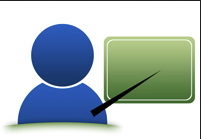
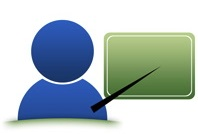
mentee/mentor img added and displayed

diff --git a/public/js/app.js b/public/js/app.js
@@ -46345,7 +46345,8 @@ Vue.use(__WEBPACK_IMPORTED_MODULE_0_vue_particles__["a" /* default */]);
     data: function data() {
         return {
             showCard: false,
-            image: ''
+            mentorLink: 'mentor.jpg',
+            menteeLink: 'mentee.jpg'
         };
     },
 
@@ -46427,6 +46428,10 @@ var render = function() {
                     _vm._v(" "),
                     _c("div", { staticClass: "row" }, [
                       _c("div", { staticClass: "col-6 border-line-left" }, [
+                        _c("img", {
+                          attrs: { src: "images/" + _vm.mentorLink }
+                        }),
+                        _vm._v(" "),
                         _c(
                           "a",
                           {
@@ -46438,6 +46443,10 @@ var render = function() {
                       ]),
                       _vm._v(" "),
                       _c("div", { staticClass: "col-6 border-line-right" }, [
+                        _c("img", {
+                          attrs: { src: "images/" + _vm.menteeLink }
+                        }),
+                        _vm._v(" "),
                         _c(
                           "a",
                           {
@@ -47945,7 +47954,6 @@ module.exports = Component.exports
 
 "use strict";
 Object.defineProperty(__webpack_exports__, "__esModule", { value: true });
-//
 //
 //
 //

diff --git a/resources/assets/js/components/Home.vue b/resources/assets/js/components/Home.vue
@@ -14,11 +14,11 @@
                         <h5 class="card-title">I'm a ...</h5>    
                         <div class="row">
                             <div class="col-6 border-line-left">
-                                <!--Todo: Adding Mentoricon-->
+                                <img v-bind:src="'images/' + mentorLink" /> 
                                 <a href="register" class="btn btn-violet btn-xs">Mentor</a>
                             </div>
                             <div class="col-6 border-line-right">
-                                <!--Todo: Adding Menteeicon-->
+                                <img v-bind:src="'images/' + menteeLink" />
                                 <a href="/register" class="btn btn-violet btn-xs">Mentee</a>
                             </div>    
                         </div>    
@@ -40,7 +40,8 @@
         data() {
             return{
                 showCard: false,
-                image: ''
+                mentorLink: 'mentor.jpg',
+                menteeLink: 'mentee.jpg'
             }
         },
         methods: {

diff --git a/resources/assets/js/components/MyProfile.vue b/resources/assets/js/components/MyProfile.vue
@@ -61,8 +61,7 @@
                             <div v-else>
                                 <img :src="image" />
                                 <button @click="removeImage" class="button_myprofile btn-block btn-xs">Change Avatar</button>
-                            </div>
-                        
+                            </div> 
                     </div>
                     <div class="row">
                         <button @click="saveSettings" class="button_myprofile btn-block btn-xs saveSettings">Save settings</button>

diff --git a/resources/assets/sass/app.scss b/resources/assets/sass/app.scss
@@ -47,7 +47,7 @@ body{
 
     .card{
         color: black;
-        width: 15rem;
+        width: 30rem;
         margin: 10px auto 0;
     }
 }

diff --git a/public/css/app.css b/public/css/app.css
@@ -12800,7 +12800,7 @@ body {
 
 .titlebox .card {
   color: black;
-  width: 15rem;
+  width: 30rem;
   margin: 10px auto 0;
 }
 
